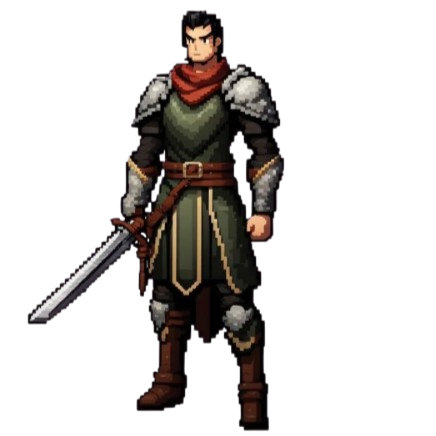
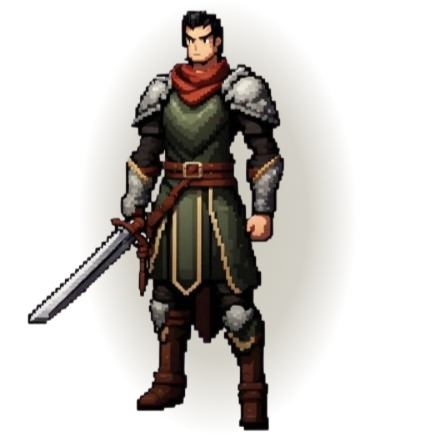
carousel

diff --git a/RpgWorld/src/heroes/screen/heroes.tsx b/RpgWorld/src/heroes/screen/heroes.tsx
@@ -1,9 +1,14 @@
-import { View, StyleSheet, Image } from "react-native";
+import React, { useState } from "react";
+import { View, StyleSheet, Image, useWindowDimensions } from "react-native";
+import Carousel from 'react-native-snap-carousel';
+
+import CarouselItem, { ITEM_WIDTH } from '../components/carouselItem';
 import GoBackButton from "../../components/go-back-button/button";
 import DataComponent from "../components/data";
 
 export interface IHero {
-    img: string;
+    defaultImg: any;
+    blackImg: any;
     color: string;
     name: string;
     title: string;
@@ -14,48 +19,130 @@ export interface IHero {
     magicPower: number;
     range: number;
     stamina: number;
+    selected: boolean;
 };
 
-const backgroundImage = require('../../../assets/background/heroes.png');
-
-const heroes: IHero[] = [
-    {
-        img: "",
-        color: "#DAD8CB",
-        name: "Sir ALdric",
-        title: "o cavalheiro errante",
-        strength: 90,
-        health: 70,
-        shield: 100,
-        agility: 70,
-        magicPower: 20,
-        range: 20,
-        stamina: 100
-    },
-    {
-        img: "",
-        color: "#6A8462",
-        name: "Kallarix",
-        title: "o lagarto das Sombras",
-        strength: 30,
-        health: 50,
-        shield: 45,
-        agility: 100,
-        magicPower: 70,
-        range: 30,
-        stamina: 50
-    },
-]
+const backgroundImage = require('../../../assets/img/background/heroes.png');
 
 function HeroesScreen(props: any): React.JSX.Element {
+    const SLIDER_WIDTH = useWindowDimensions().width;
+
+    const [currentIndex, setCurrentIndex] = useState(0);
+
+    const [heroes, setHeroes] = useState([
+        {
+            defaultImg: require("../../../assets/img/heroes/knight.png"),
+            blackImg: require("../../../assets/img/heroes/knight-black.png"),
+            color: "#DAD8CB",
+            name: "Sir ALdric",
+            title: "o cavalheiro errante",
+            strength: 90,
+            health: 70,
+            shield: 100,
+            agility: 70,
+            magicPower: 20,
+            range: 20,
+            stamina: 100,
+            selected: false
+        },
+        {
+            defaultImg: require("../../../assets/img/heroes/lizard.png"),
+            blackImg: require("../../../assets/img/heroes/lizard-black.png"),
+            color: "#6A8462",
+            name: "Kallarix",
+            title: "o lagarto das Sombras",
+            strength: 30,
+            health: 50,
+            shield: 45,
+            agility: 100,
+            magicPower: 70,
+            range: 30,
+            stamina: 50,
+            selected: false
+        },
+        {
+            defaultImg: require("../../../assets/img/heroes/queen.png"),
+            blackImg: require("../../../assets/img/heroes/queen-black.png"),
+            color: "#41A2DB",
+            name: "Queen Eira",
+            title: "coração de gelo ",
+            strength: 30,
+            health: 80,
+            shield: 80,
+            agility: 80,
+            magicPower: 100,
+            range: 100,
+            stamina: 50,
+            selected: false
+        },
+        {
+            defaultImg: require("../../../assets/img/heroes/dragon.png"),
+            blackImg: require("../../../assets/img/heroes/dragon-black.png"),
+            color: "#E96921",
+            name: "Drakkar",
+            title: "o dragão Redentor",
+            strength: 100,
+            health: 100,
+            shield: 100,
+            agility: 30,
+            magicPower: 80,
+            range: 100,
+            stamina: 50,
+            selected: false
+        },
+        {
+            defaultImg: require("../../../assets/img/heroes/mage.png"),
+            blackImg: require("../../../assets/img/heroes/mage-black.png"),
+            color: "#647BAD",
+            name: "Aelar",
+            title: "o Sábio Arcano",
+            strength: 30,
+            health: 100,
+            shield: 50,
+            agility: 80,
+            magicPower: 100,
+            range: 100,
+            stamina: 100,
+            selected: false
+        }
+    ]);
+
+    const updateSelected = (_currentIndex: number) => {
+        let heroesList = heroes;
+        heroes.forEach((hero, index) => {
+            hero.selected = _currentIndex == index;
+        });
+
+        setHeroes(heroesList);
+    };
+
     return (
         <View style={styles.box}>
             <Image source={backgroundImage} style={styles.imageBackground}></Image>
             <View style={styles.backButton}>
                 <GoBackButton navigation={props.navigation}></GoBackButton>
             </View>
-            <View style={{ flex: 1, alignItems: 'flex-end', justifyContent: 'flex-end' }}>
-                <DataComponent heroData={heroes[0]}></DataComponent>
+            <View style={styles.boxScreen}>
+                <Carousel
+                    layout="default"
+                    layoutCardOffset={heroes.length}
+                    ref={(c) => {
+                        updateSelected(0);
+                    }}
+                    data={heroes}
+                    onBeforeSnapToItem={(_index) => {
+                        setCurrentIndex(_index);
+                        updateSelected(_index);
+                    }}
+                    renderItem={CarouselItem}
+                    sliderWidth={SLIDER_WIDTH}
+                    itemWidth={ITEM_WIDTH - 50}
+                    inactiveSlideShift={-200}
+                    useScrollView={true}
+                    loop={true}
+                    contentContainerCustomStyle={styles.carousel}
+                />
+                <DataComponent heroData={heroes[currentIndex]}></DataComponent>
             </View>
         </View>
     );
@@ -64,6 +151,17 @@ function HeroesScreen(props: any): React.JSX.Element {
 const styles = StyleSheet.create({
     box: {
         height: '100%',
+    },
+
+    boxScreen: {
+        flex: 1,
+        alignItems: 'center',
+        justifyContent: 'flex-end'
+    },
+
+    carousel: {
+        alignItems: 'center',
+        paddingTop: 230
     },
 
     imageBackground: {
@@ -78,7 +176,8 @@ const styles = StyleSheet.create({
     backButton: {
         position: 'absolute',
         top: 10,
-        left: 10
+        left: 10,
+        zIndex: 1
     }
 });
 

diff --git a/RpgWorld/src/heroes/components/carouselItem.tsx b/RpgWorld/src/heroes/components/carouselItem.tsx
@@ -1,0 +1,33 @@
+import React from 'react';
+import { View, StyleSheet, Image } from "react-native";
+
+export const ITEM_WIDTH = 280;
+
+const CarouselItemComponent = (props: any) => {
+    const item = props.item;
+    const index = props.index;
+    const selected: boolean = item.selected;
+
+    return (
+        <View style={[styles.container, { shadowColor: item.color }]} key={index}>
+            <Image
+                source={selected ? item.defaultImg : item.blackImg}
+                style={styles.image}
+            />
+        </View>
+    );
+}
+
+const styles = StyleSheet.create({
+    container: {
+        width: ITEM_WIDTH,
+        elevation: 70
+    },
+
+    image: {
+        objectFit: 'contain',
+        width: ITEM_WIDTH,
+    }
+})
+
+export default CarouselItemComponent;

diff --git a/RpgWorld/src/adventures/screen/adventures.tsx b/RpgWorld/src/adventures/screen/adventures.tsx
@@ -1,7 +1,7 @@
 import { View, StyleSheet, Image } from "react-native";
 import GoBackButton from "../../components/go-back-button/button";
 
-const backgroundImage = require('../../../assets/background/maps.png');
+const backgroundImage = require('../../../assets/img/background/maps.png');
 
 function AdventuresScreen(props: any): React.JSX.Element {
     return (

diff --git a/RpgWorld/src/home/screen/home.tsx b/RpgWorld/src/home/screen/home.tsx
@@ -6,7 +6,7 @@ import {
     TouchableHighlight,
 } from 'react-native';
 
-const image = require('../../../assets/background/home.png');
+const image = require('../../../assets/img/background/home.png');
 
 function HomeScreen(props: any): React.JSX.Element {
     return (
